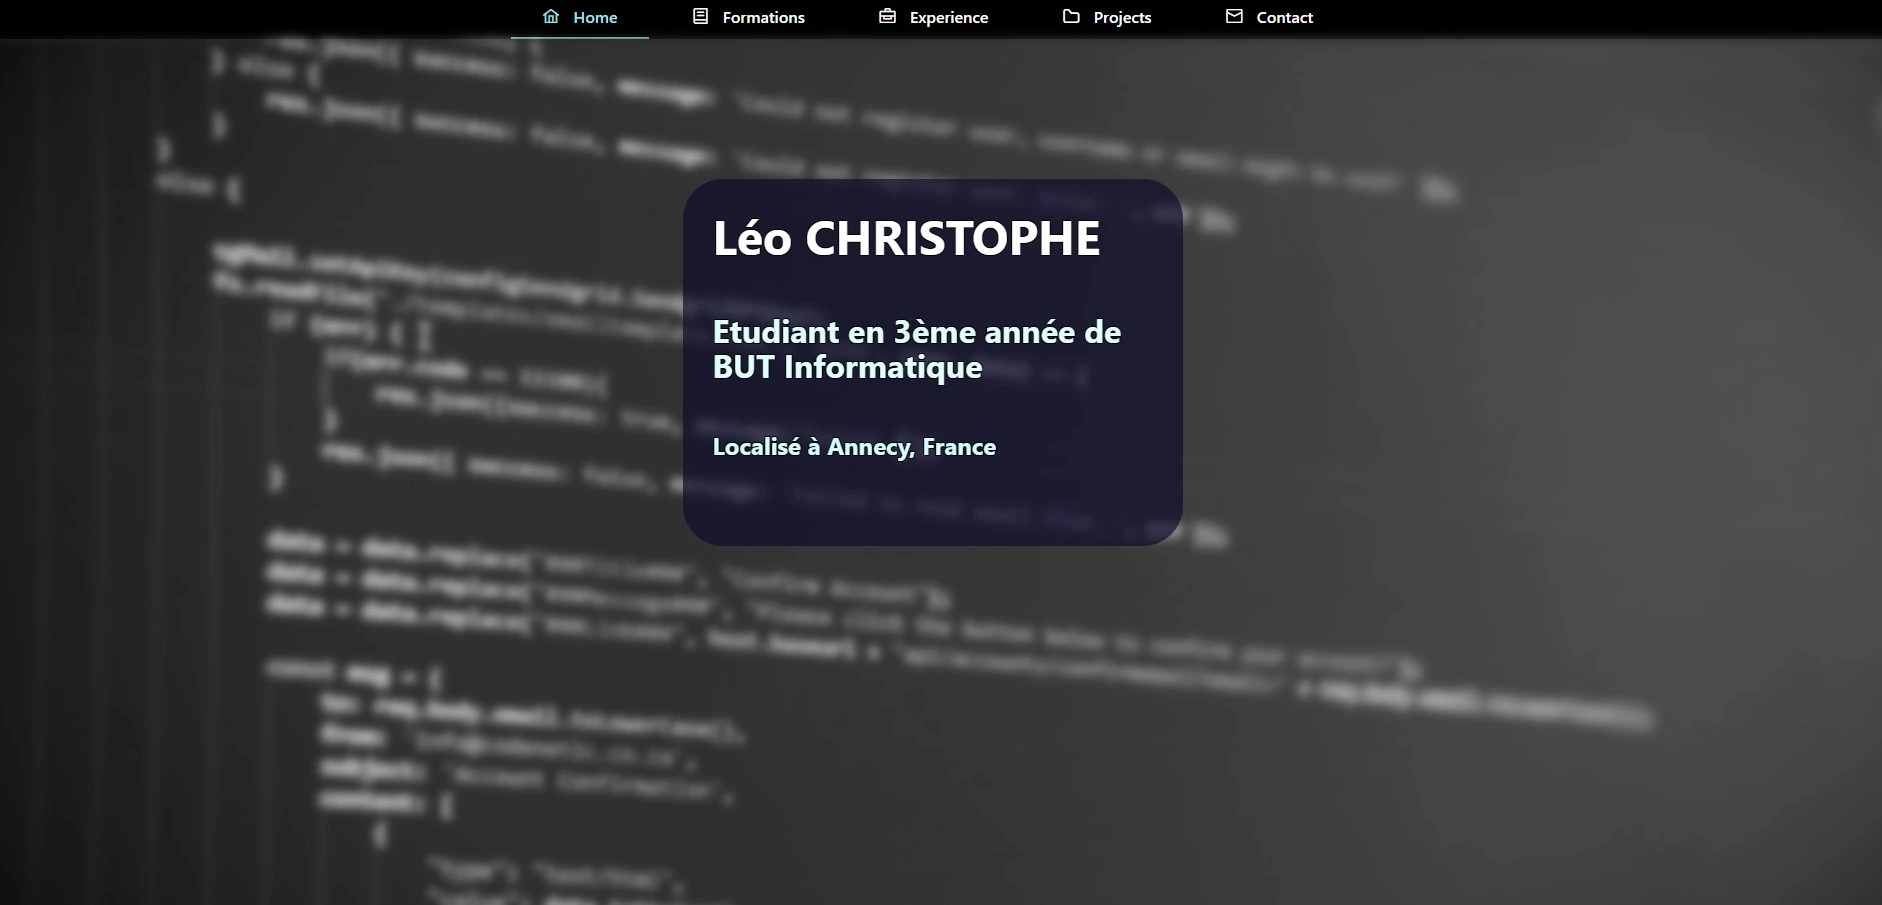
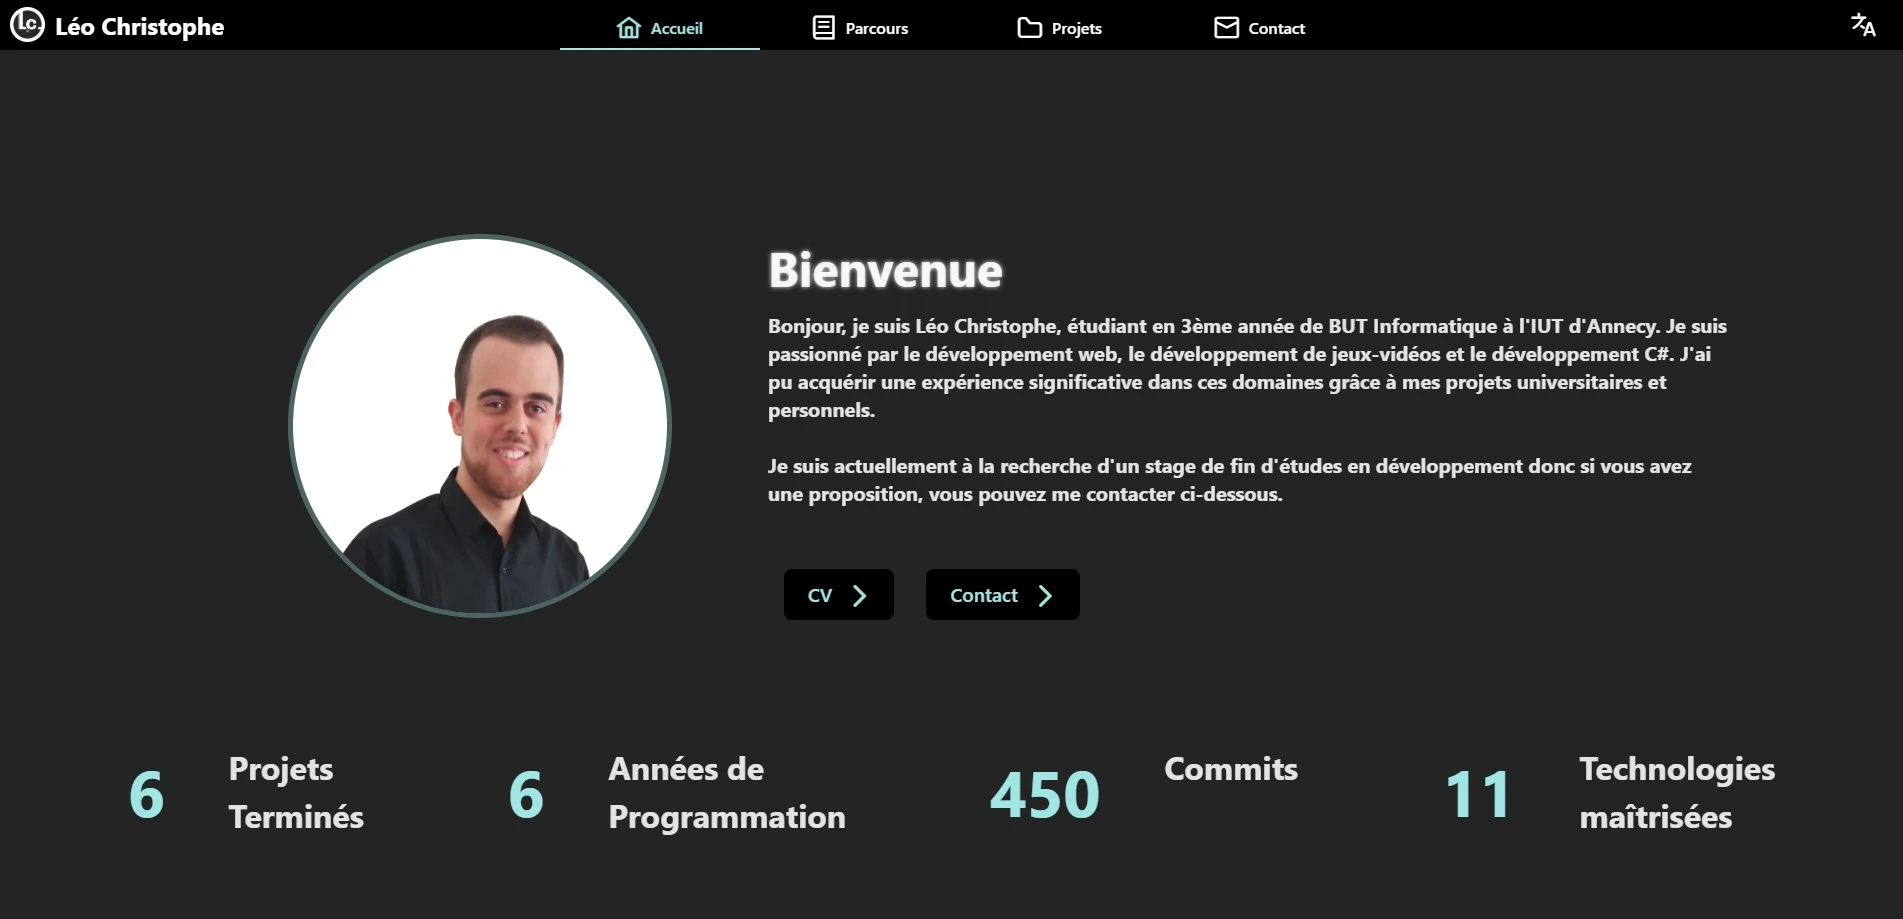
Ajout ARPI (FR), Maj sitemap, Maj projets => les plus pertinents restent.

diff --git a/src/style.css b/src/style.css
@@ -7,6 +7,14 @@
   --darkBackground-color:black;
   --secondColor: rgb(159, 229, 227);
 
+  --secondColorLight: #BAECEB;
+  --secondColorLighter: #D6F4F3;
+  --secondColorLightest: #F1FBFB;
+
+  --secondColorDark: #36C4BF;
+  --secondColorDarker: #24827F;
+  --secondColorDarkest: #124140;
+
   --home-background-color1:rgb(33, 33, 33);
   --home-background-color2:rgb(30, 30, 30);
   --home-background-color3:rgb(21, 21, 21);

diff --git a/src/views/projects.vue b/src/views/projects.vue
@@ -99,6 +99,12 @@ onMounted(() => {
       return selectedTypes.includes(type)
     })
 
+    // Filtrage des projets finits
+    projects = projects.filter(project => {
+      const isWIP = project.wip;
+      if (!isWIP) return true;
+    })
+
   // Tri selon `sortBy`
   return projects.sort((a, b) => {
     // Vérifier et initialiser la date de début

diff --git a/src/views/projects/project_sae104.vue b/src/views/projects/project_sae104.vue
@@ -3,7 +3,7 @@ import Amphibiens from '../../components/ProjectTemplate.vue'
 </script>
 
 <template>
-    <Amphibiens id="5"/>
+    <Amphibiens id="4"/>
 </template>
 
 <style scoped>

diff --git a/src/views/projects/project_sae301.vue b/src/views/projects/project_sae301.vue
@@ -3,7 +3,7 @@ import SkillUpNow from '../../components/ProjectTemplate.vue'
 </script>
 
 <template>
-    <SkillUpNow id="2"/>
+    <SkillUpNow id="1"/>
 </template>
 
 <style scoped>

diff --git a/src/views/projects/project_portfolio.vue b/src/views/projects/project_portfolio.vue
@@ -4,6 +4,6 @@ import Portfolio from '../../components/ProjectTemplate.vue'
 
 <template>
     <div>
-        <Portfolio id="4"/>
+        <Portfolio id="3"/>
     </div>
 </template>

diff --git a/src/views/projects/project_sae501.vue b/src/views/projects/project_sae501.vue
@@ -1,0 +1,10 @@
+<script setup>
+import SAE501 from '../../components/ProjectTemplate.vue'
+</script>
+
+<template>
+    <SAE501 id="6"/>
+</template>
+
+<style scoped>
+</style>

diff --git a/src/views/projects/project_matinfo.vue b/src/views/projects/project_matinfo.vue
@@ -4,6 +4,6 @@ import Matinfo from '../../components/ProjectTemplate.vue'
 
 <template>
     <div>
-        <Matinfo id="7"/>
+        <Matinfo id="5"/>
     </div>
 </template>

diff --git a/src/views/projects/project_sae401.vue b/src/views/projects/project_sae401.vue
@@ -3,7 +3,7 @@ import BMW from '../../components/ProjectTemplate.vue'
 </script>
 
 <template>
-    <BMW id="3"/>
+    <BMW id="2"/>
 </template>
 
 <style scoped>

diff --git a/src/views/home.vue b/src/views/home.vue
@@ -60,6 +60,7 @@ import { onMounted, ref } from 'vue';
 
 #interests{
   margin-top:10vh;
+
 }
 
 .pageSection {
